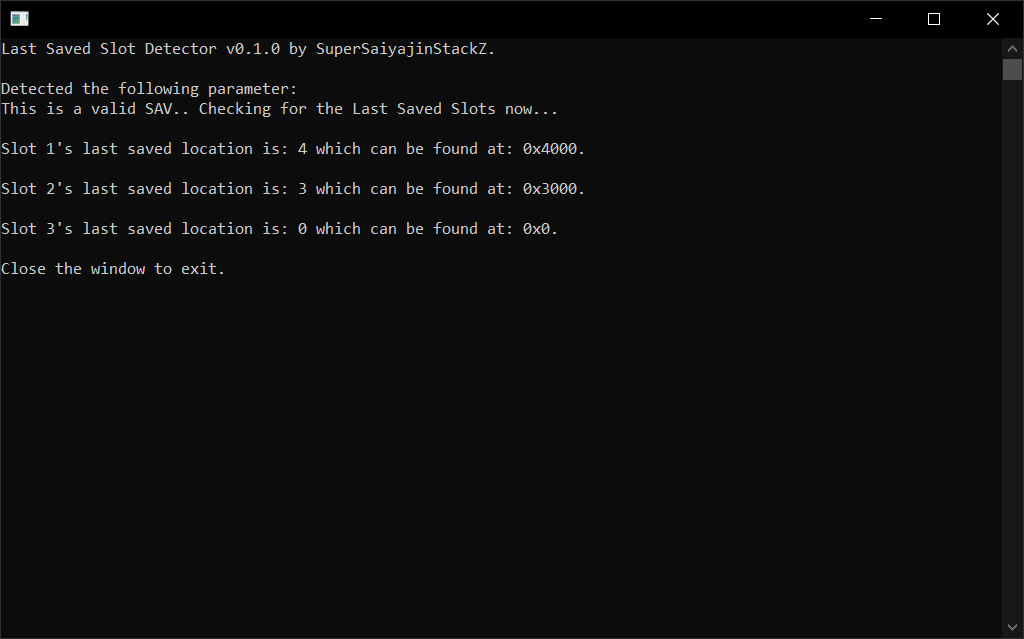
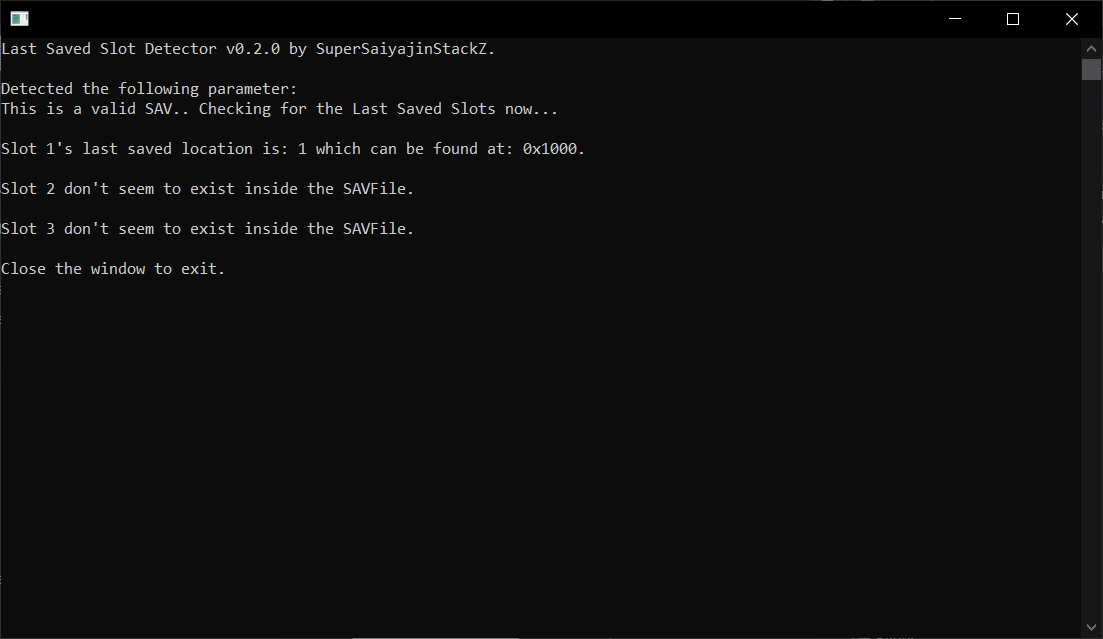
**LSSD**: SAVCount is uint16_t not uint8_t.

diff --git a/LSSD/main.cpp b/LSSD/main.cpp
@@ -64,13 +64,13 @@ static bool LoadSav(const std::string &Path) {
 
 	const uint8_t SAVSlot: The Slot which to check. ( 0 - 4 )
 
-	TODO: What happens if SAVCount reaches 0xFF? Does it reset to 0x0 and goes up to 0xFF again? Detect it as well for v0.2.0!
+	TODO: Proper detection way for when Saving after 0xFFFF.
 */
 static int LSSD(const uint8_t SAVSlot) {
 	if (!SavData) return -1; // Also return -1 there.
 
 	int LastSavedSlot = -1, IDCount = 0;
-	uint8_t SAVCount[5] = { 0x0 };
+	uint16_t SAVCount[5] = { 0x0 }; // It is actually 2 byte, not 1, hence checking for uint16_t now.
 	bool SAVSlotExist[5] = { false };
 
 	/* Looping 5 times. */
@@ -88,7 +88,7 @@ static int LSSD(const uint8_t SAVSlot) {
 			if (SavData.get()[(0x1000 * Slot) + SLOT_OFFS] == SAVSlot) {
 
 				/* Now get the SAVCount. */
-				SAVCount[Slot] = SavData.get()[(0x1000 * Slot) + SAV_COUNT_OFFS];
+				SAVCount[Slot] = *reinterpret_cast<uint16_t *>(SavData.get() + (0x1000 * Slot) + SAV_COUNT_OFFS);
 				SAVSlotExist[Slot] = true;
 			}
 		}

diff --git a/LSSD/common.hpp b/LSSD/common.hpp
@@ -31,8 +31,8 @@
 #include <memory>
 #include <string>
 
-#define SLOT_OFFS 0xC // The Slot (0x0: 1, 0x1: 2, 0x2: 3).
-#define SAV_COUNT_OFFS 0x8 // The SAV Count offset. (seems to be 1 byte and from 0x0 TO 0xFF?).
-#define START_STR "Last Saved Slot Detector v0.1.0 by SuperSaiyajinStackZ.\n\n"
+#define SLOT_OFFS 0xC // The Slot (0x0: 1, 0x1: 2, 0x2: 3). Additional Note: 0xD seems to be related to the Slot offset too, but the SAV handles it on 0xC only?
+#define SAV_COUNT_OFFS 0x8 // The SAV Count offset. (seems to be 2 byte and from 0x0000 TO 0xFFFF).
+#define START_STR "Last Saved Slot Detector v0.2.0 by SuperSaiyajinStackZ.\n\n"
 
 #endif
